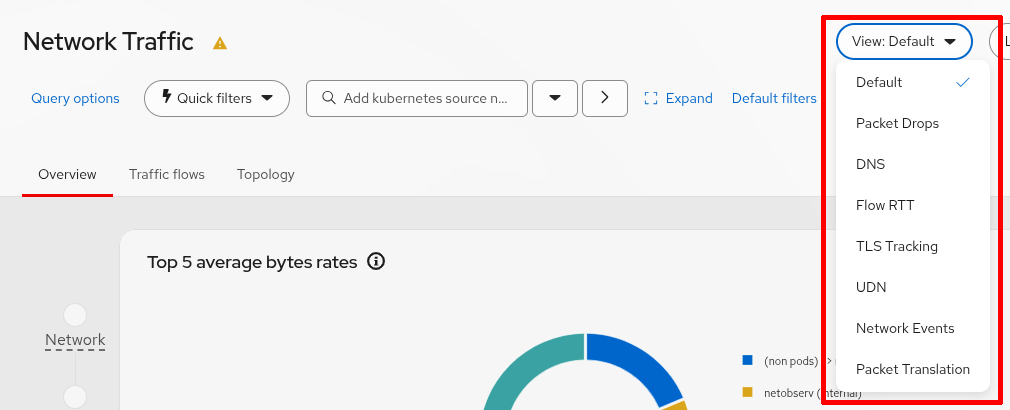
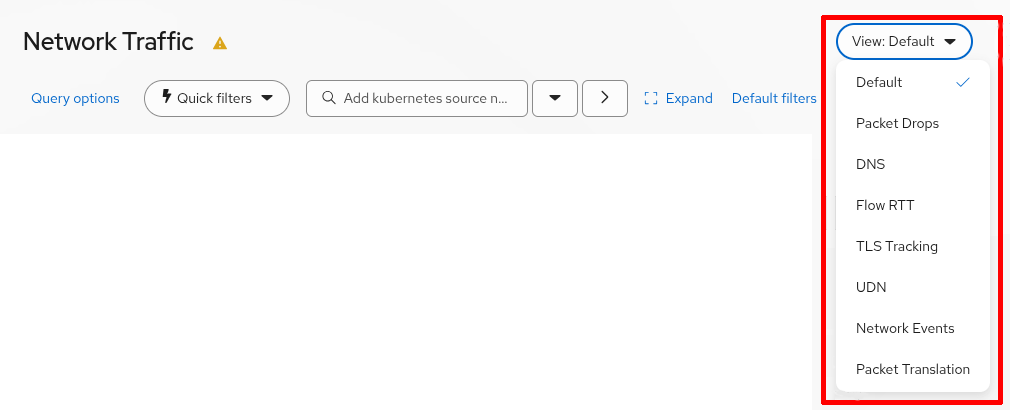
Clean up feature_views.png, fix YAML

diff --git a/content/posts/2026-10-13-whats-new-2-0/index.md b/content/posts/2026-10-13-whats-new-2-0/index.md
@@ -104,8 +104,8 @@ If you use Border Gateway Protocol (BGP), the flows can be enriched with the sou
 To set up routing and BGP on OpenShift, see [this article](https://developers.redhat.com/articles/2026/01/21/selective-network-hosting-bgp-router-openshift). Assuming you have created a UserDefinedNetwork resource and a couple of pods to talk to each other periodically, enable this feature by entering `oc edit flowcollector` and adding:
 
 ```yaml
-spec
-  processor
+spec:
+  processor:
     bgpEnrichment: true  # add this line
 ```
 
@@ -162,10 +162,9 @@ Networking is critical infrastructure, and without network observability, you're
 In OCP 5.0, network observability can be enabled through a feature gate. To enable the feature gate when creating a cluster with `openshift-install`, add the following to your **install-config.yaml** file:
 
 ```yaml
-spec:
-  featureSet: CustomNoUpgrade
-  customNoUpgrade:
-    enabled: [NetworkObservabilityInstall]
+featureSet: CustomNoUpgrade
+customNoUpgrade:
+  enabled: [NetworkObservabilityInstall]
 ```
 
 **Important:** The `CustomNoUpgrade` feature set prevents cluster upgrades. Use this configuration only in a test environment.
@@ -173,7 +172,7 @@ spec:
 Single Node OpenShift (SNO) clusters are excluded from the default installation policy. If you want it enabled even for SNO clusters, add the following to your **install-config.yaml** file:
 
 ```yaml
-spec:
+networking:
   networkObservability:
     installationPolicy: InstallAndEnable
 ```
